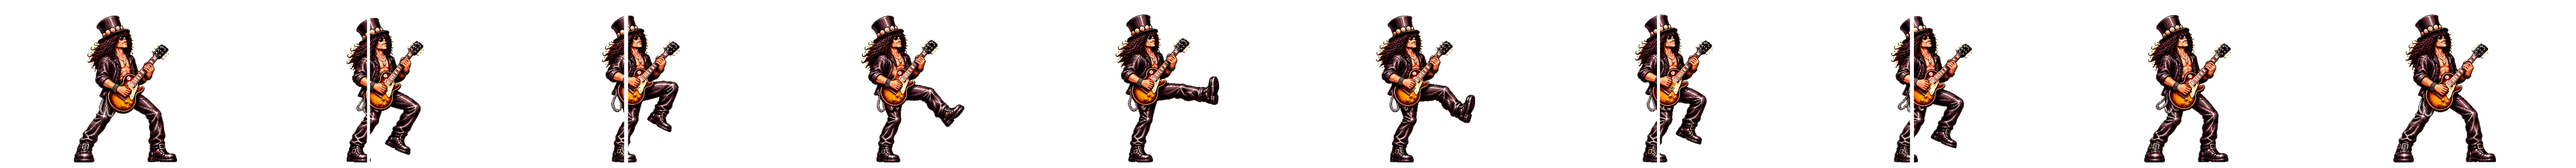
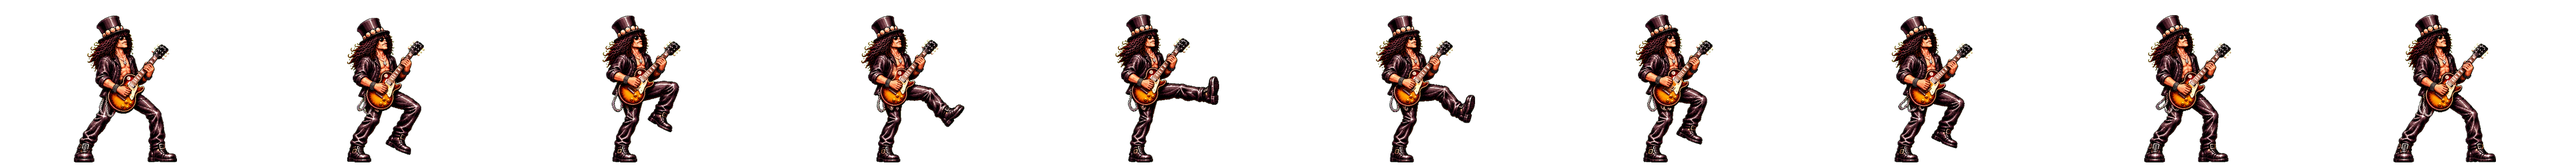
Corrige corte nos quadros do Slash e S+F chama o ajudante

diff --git a/index.html b/index.html
@@ -73,7 +73,7 @@ kbd{font-family:var(--px);font-size:10px;background:#2a1a3a;border:1px solid #4a
   </div>
   <div class="box mobile">
     <h2>On your phone</h2>
-    <p>Turn the phone sideways. Drag the left stick to walk, crouch and jump; the arrow combos below work by sliding your thumb (for example ↓ then →). The buttons on the right are <kbd>A</kbd> <kbd>S</kbd> <kbd>D</kbd> <kbd>F</kbd>; press two at once with two fingers for the two-button specials: S+D (Panama / Welcome to the Jungle), A+D (Spanish Fly / Sweet Child) and A+S for the super (5150 / Appetite). On the fighter select screen, tap a portrait to pick it, then tap it again or tap FIGHT!; then tap a stage and FIGHT! to start. Tap the screen after a match to go back to fighter select.</p>
+    <p>Turn the phone sideways. Drag the left stick to walk, crouch and jump; the arrow combos below work by sliding your thumb (for example ↓ then →). The buttons on the right are <kbd>A</kbd> <kbd>S</kbd> <kbd>D</kbd> <kbd>F</kbd>; press two at once with two fingers for the two-button specials: S+D (Panama / Welcome to the Jungle), A+D (Spanish Fly / Sweet Child), S+F (David Lee Roth / Axl Rose) and A+S for the super (5150 / Appetite). On the fighter select screen, tap a portrait to pick it, then tap it again or tap FIGHT!; then tap a stage and FIGHT! to start. Tap the screen after a match to go back to fighter select.</p>
   </div>
   <p class="tip">Click the game before playing so the keyboard responds. <span id="dbg"></span></p>
 <script>window.addEventListener('error',e=>{document.getElementById('dbg').textContent='ERROR: '+e.message+' @'+(e.lineno||'')});</script>
@@ -89,7 +89,7 @@ kbd{font-family:var(--px);font-size:10px;background:#2a1a3a;border:1px solid #4a
       <p><b>Eruption:</b> <kbd>↓</kbd> <kbd>→</kbd> + <kbd>A</kbd> or <kbd>S</kbd>. Fireball; faster with <kbd>S</kbd>. Whoever gets hit is toasted.</p>
       <p><b>Panama:</b> <kbd>S</kbd> + <kbd>D</kbd> together (or <kbd>↓</kbd> <kbd>→</kbd> + <kbd>D</kbd> or <kbd>F</kbd>). Eddie shows up in a Lamborghini and runs the opponent flat as a pancake.</p>
       <p><b>Spanish Fly:</b> <kbd>A</kbd> + <kbd>D</kbd> together. Eddie taps on a classical nylon guitar and sends hypnotic waves; whoever gets hit yawns, falls asleep on the floor and is wide open (hit him to wake him up).</p>
-      <p><b>Jump!:</b> <kbd>→</kbd> <kbd>↓</kbd> + <kbd>D</kbd> or <kbd>F</kbd>. David Lee Roth drops from the sky in a split, right on top of the opponent.</p>
+      <p><b>Jump!:</b> <kbd>S</kbd> + <kbd>F</kbd> together (or <kbd>→</kbd> <kbd>↓</kbd> + <kbd>D</kbd> or <kbd>F</kbd>). David Lee Roth drops from the sky in a split, right on top of the opponent.</p>
       <p><b>Dive Bomb:</b> <kbd>↓</kbd> <kbd>←</kbd> + <kbd>A</kbd> or <kbd>S</kbd>. Three bombs fall from the sky where the opponent stands.</p>
       <p><b>Shark Bite:</b> <kbd>↓</kbd> <kbd>←</kbd> + <kbd>D</kbd> or <kbd>F</kbd>. Pulls out the Ibanez "Shark" and bites 3 times.</p>
       <p><b>Brown Sound:</b> <kbd>↓</kbd> <kbd>↓</kbd> + <kbd>A</kbd> or <kbd>S</kbd> (tap down twice). A column of distortion bursts around Eddie; great against jumpers.</p>
@@ -103,7 +103,7 @@ kbd{font-family:var(--px);font-size:10px;background:#2a1a3a;border:1px solid #4a
       <p><b>Top Hat:</b> <kbd>↓</kbd> <kbd>→</kbd> + <kbd>A</kbd> or <kbd>S</kbd>. Throws his top hat like a boomerang; it flies far and comes back. Faster with <kbd>S</kbd>.</p>
       <p><b>Welcome to the Jungle:</b> <kbd>S</kbd> + <kbd>D</kbd> together (or <kbd>↓</kbd> <kbd>→</kbd> + <kbd>D</kbd> or <kbd>F</kbd>). Dashes in and a giant python strikes.</p>
       <p><b>Sweet Child:</b> <kbd>A</kbd> + <kbd>D</kbd> together. The famous riff sends notes and hearts; whoever gets hit can't stop dancing and is wide open.</p>
-      <p><b>You Could Be Mine:</b> <kbd>→</kbd> <kbd>↓</kbd> + <kbd>D</kbd> or <kbd>F</kbd>. Slash whistles and Axl Rose knee-slides across the stage. It's a low hit: block it crouching.</p>
+      <p><b>You Could Be Mine:</b> <kbd>S</kbd> + <kbd>F</kbd> together (or <kbd>→</kbd> <kbd>↓</kbd> + <kbd>D</kbd> or <kbd>F</kbd>). Slash whistles and Axl Rose knee-slides across the stage. It's a low hit: block it crouching.</p>
       <p><b>November Rain:</b> <kbd>↓</kbd> <kbd>←</kbd> + <kbd>A</kbd> or <kbd>S</kbd>. Rain starts and a grand piano drops on the opponent. Can't be blocked crouching.</p>
       <p><b>Double Neck:</b> <kbd>↓</kbd> <kbd>←</kbd> + <kbd>D</kbd> or <kbd>F</kbd>. Swaps to the double-neck Gibson and hits 3 times.</p>
       <p><b>Paradise City:</b> <kbd>↓</kbd> <kbd>↓</kbd> + <kbd>A</kbd> or <kbd>S</kbd>. Stage pyro bursts from the floor around him; great against jumpers.</p>
@@ -151,5 +151,5 @@ kbd{font-family:var(--px);font-size:10px;background:#2a1a3a;border:1px solid #4a
 })();
 </script>
 <script src="https://cdnjs.cloudflare.com/ajax/libs/phaser/3.80.1/phaser.min.js"></script>
-<script src="game.js?v=cb4223e"></script>
+<script src="game.js?v=db77e52"></script>
 </html>

diff --git a/game.js b/game.js
@@ -98,6 +98,7 @@ const EDDIE_SPECIALS = [
   { move: 'teacher',    chord: ['lp', 'hp'], super: true },
   { move: 'spanish',    chord: ['lp', 'lk'], lock: 'hypno' },
   { move: 'panama',     chord: ['hp', 'lk'] },
+  { move: 'jumpcall',   chord: ['hp', 'hk'], lock: 'dlr' },
   { move: 'brownsound', btn: 'punch', motion: [2, 5, 2] },
   { move: 'bumblebee',  btn: 'kick',  motion: [2, 5, 2], lock: 'swarm' },
   { move: 'jumpcall',   btn: 'kick',  motion: [6, 2], lock: 'dlr' },
@@ -208,6 +209,7 @@ const SLASH_SPECIALS = [
   { move: 'appetite',   chord: ['lp', 'hp'], super: true },
   { move: 'sweet',      chord: ['lp', 'lk'], lock: 'hypno' },
   { move: 'jungle',     chord: ['hp', 'lk'] },
+  { move: 'axlcall',    chord: ['hp', 'hk'], lock: 'dlr' },
   { move: 'paradise',   btn: 'punch', motion: [2, 5, 2] },
   { move: 'snakepit',   btn: 'kick',  motion: [2, 5, 2], lock: 'swarm' },
   { move: 'axlcall',    btn: 'kick',  motion: [6, 2], lock: 'dlr' },
@@ -269,17 +271,17 @@ for (const [id, c] of Object.entries(CHARS)) c.id = id;
 // PALCOS (escolhidos depois dos lutadores). Palco sem imagem não aparece na escolha.
 // Na vitória, qualquer palco dá lugar ao Templo dos Deuses da Guitarra (TEMPLE), com os holofotes no vencedor.
 const STAGES = [
-  { id: 'eddie',    name: "EDDIE'S STAGE",  tag: 'Arena rock',         file: 'assets/stages/palco-eddie.jpg?v=cb4223e' },
-  { id: 'slash',    name: 'SUNSET STRIP',   tag: 'Rock bar',           file: 'assets/stages/palco-slash.jpg?v=cb4223e' },
-  { id: 'stairway', name: 'STAIRWAY HILL',  tag: 'Airship at dusk',    file: 'assets/stages/cenario-dirigivel.jpg?v=cb4223e' },
-  { id: 'pig',      name: 'POWER STATION',  tag: 'Flying pig',         file: 'assets/stages/cenario-usina-porco.jpg?v=cb4223e' },
-  { id: 'rooftop',  name: 'LONDON ROOFTOP', tag: 'The last gig',       file: 'assets/stages/cenario-telhado-londres.jpg?v=cb4223e' },
-  { id: 'voltage',  name: 'HIGH VOLTAGE',   tag: 'Thunder road',       file: 'assets/stages/cenario-alta-voltagem.jpg?v=cb4223e' },
-  { id: 'stadium',  name: "STADIUM '85",    tag: 'Live for the world', file: 'assets/stages/cenario-estadio.jpg?v=cb4223e' },
+  { id: 'eddie',    name: "EDDIE'S STAGE",  tag: 'Arena rock',         file: 'assets/stages/palco-eddie.jpg?v=db77e52' },
+  { id: 'slash',    name: 'SUNSET STRIP',   tag: 'Rock bar',           file: 'assets/stages/palco-slash.jpg?v=db77e52' },
+  { id: 'stairway', name: 'STAIRWAY HILL',  tag: 'Airship at dusk',    file: 'assets/stages/cenario-dirigivel.jpg?v=db77e52' },
+  { id: 'pig',      name: 'POWER STATION',  tag: 'Flying pig',         file: 'assets/stages/cenario-usina-porco.jpg?v=db77e52' },
+  { id: 'rooftop',  name: 'LONDON ROOFTOP', tag: 'The last gig',       file: 'assets/stages/cenario-telhado-londres.jpg?v=db77e52' },
+  { id: 'voltage',  name: 'HIGH VOLTAGE',   tag: 'Thunder road',       file: 'assets/stages/cenario-alta-voltagem.jpg?v=db77e52' },
+  { id: 'stadium',  name: "STADIUM '85",    tag: 'Live for the world', file: 'assets/stages/cenario-estadio.jpg?v=db77e52' },
 ];
 const stageById = id => STAGES.find(st => st.id === id);
 // templo da vitória: imagem e posição (em 960x540) e cor dos holofotes do teto
-const TEMPLE = { file: 'assets/stages/templo-vitoria.jpg?v=cb4223e', lamps: [[106, 30, 0xffd27a], [184, 36, 0xffe9a8], [781, 36, 0xffe9a8], [845, 32, 0xffd27a]] };
+const TEMPLE = { file: 'assets/stages/templo-vitoria.jpg?v=db77e52', lamps: [[106, 30, 0xffd27a], [184, 36, 0xffe9a8], [781, 36, 0xffe9a8], [845, 32, 0xffd27a]] };
 
 // reações cômicas (folha react do lutador que apanhou): quadros e duração em quadros de jogo; quem está na piada fica invencível
 const GAGS = {
@@ -406,7 +408,7 @@ class Boot extends Phaser.Scene {
       for (const [n, count] of Object.entries(c.anims)) {
         const key = `${c.dir}_${n}`;
         FRAMES[key] = count;
-        this.load.spritesheet(key, `assets/${c.dir}/${n}.png?v=cb4223e`, { frameWidth: FW, frameHeight: FH });
+        this.load.spritesheet(key, `assets/${c.dir}/${n}.png?v=db77e52`, { frameWidth: FW, frameHeight: FH });
       }
     }
   }
